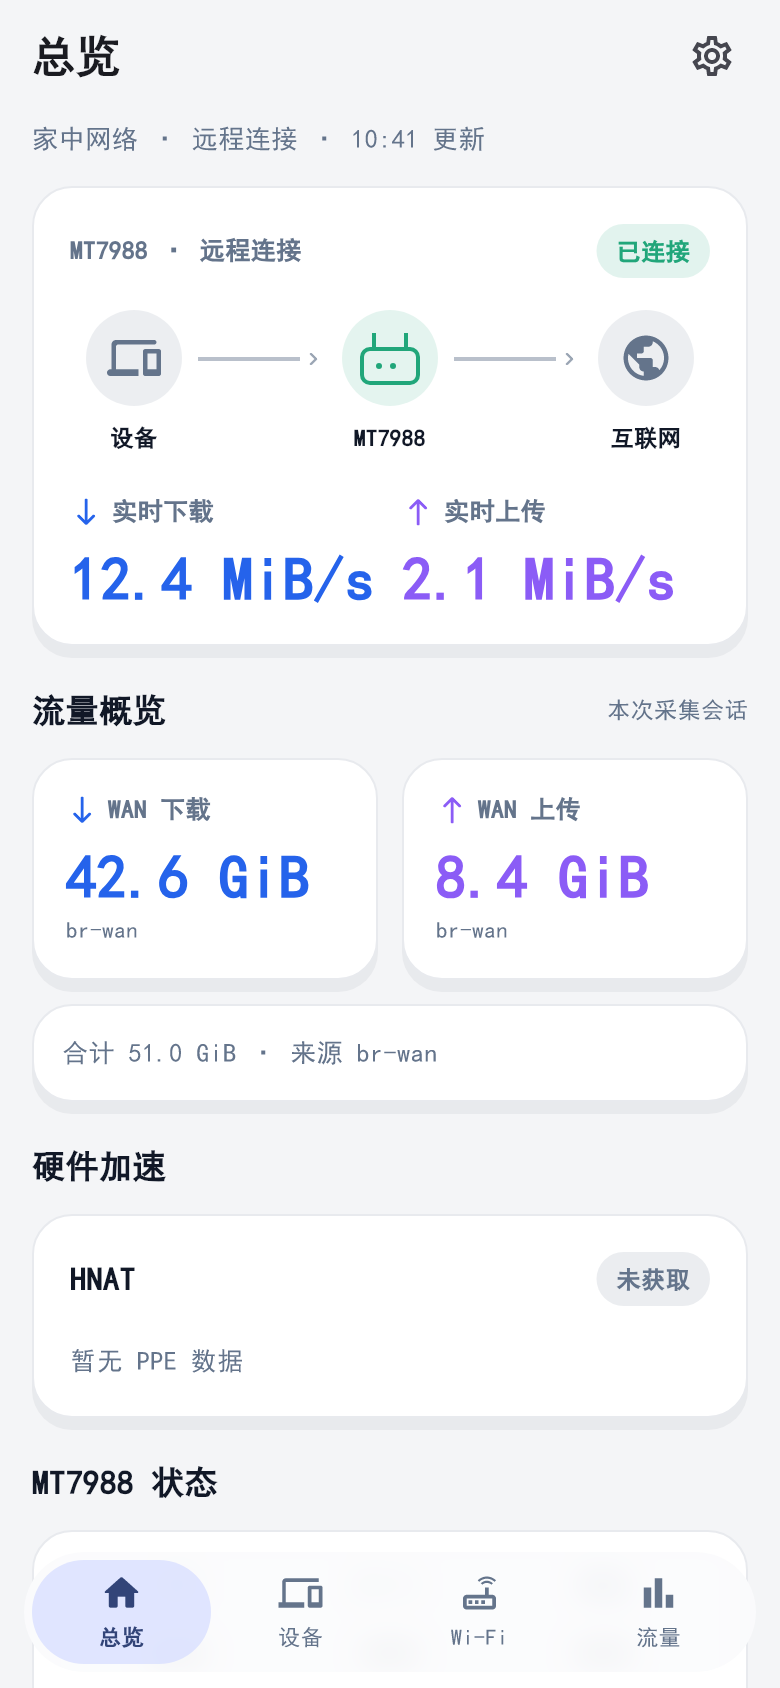
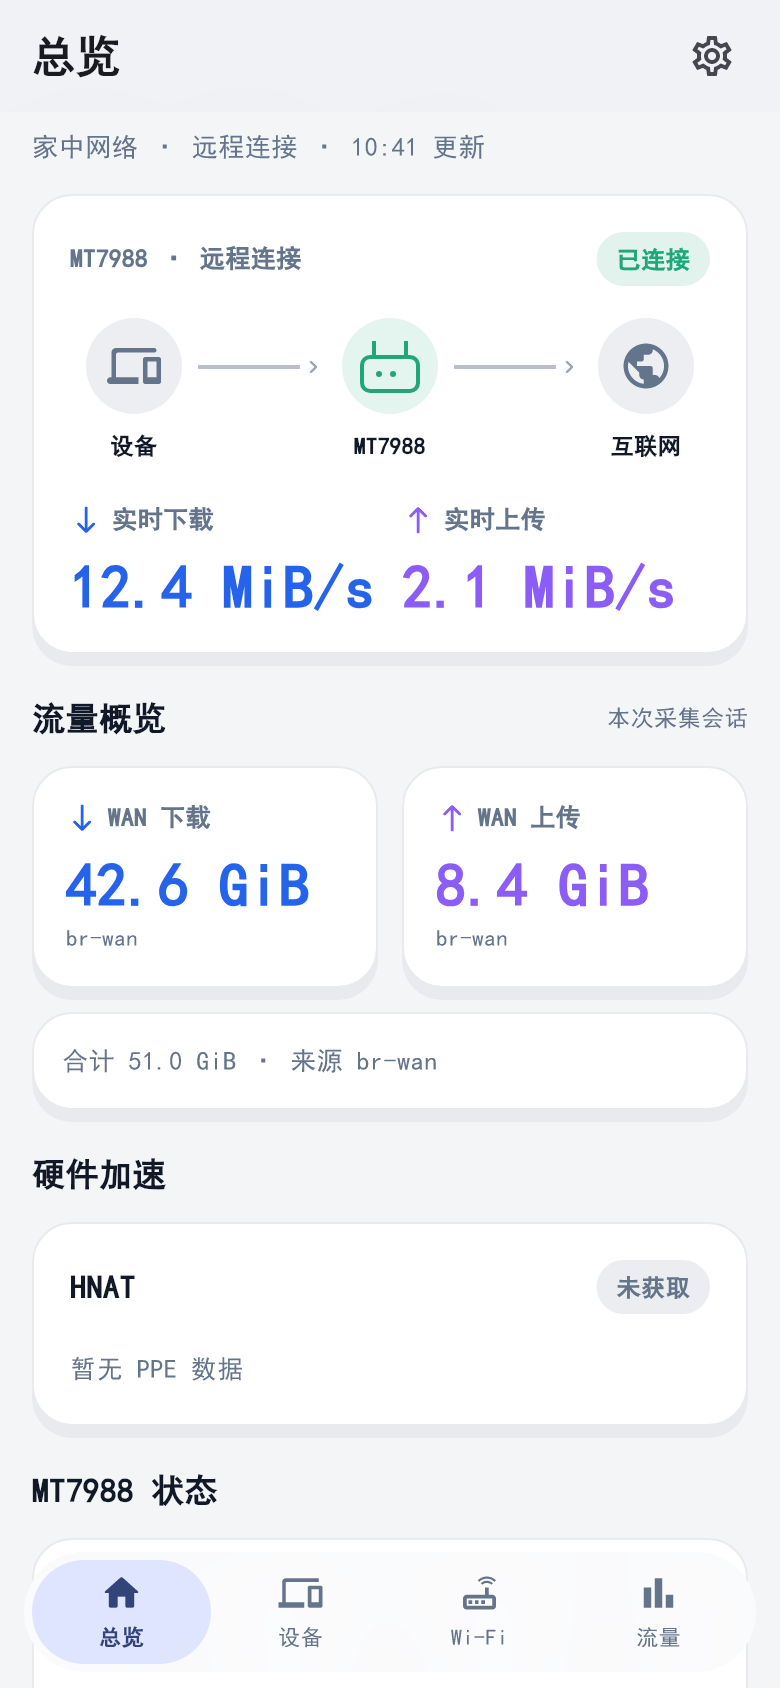
Preserve full glass effects with frameless toolbar

diff --git a/lib/main.dart b/lib/main.dart
@@ -292,7 +292,6 @@ class RouterHome extends StatefulWidget {
 
 class _RouterHomeState extends State<RouterHome> with WidgetsBindingObserver {
   final _navigationVisible = ValueNotifier(true);
-  final _scrolling = ValueNotifier(false);
   double _scrollGesture = 0;
 
   bool _onScroll(ScrollNotification notification) {
@@ -301,9 +300,6 @@ class _RouterHomeState extends State<RouterHome> with WidgetsBindingObserver {
     }
     if (notification is ScrollStartNotification) {
       _scrollGesture = 0;
-      _scrolling.value = true;
-    } else if (notification is ScrollEndNotification) {
-      _scrolling.value = false;
     } else if (notification is ScrollUpdateNotification &&
         notification.dragDetails != null) {
       final delta = notification.scrollDelta ?? 0;
@@ -558,7 +554,6 @@ class _RouterHomeState extends State<RouterHome> with WidgetsBindingObserver {
   void dispose() {
     WidgetsBinding.instance.removeObserver(this);
     _navigationVisible.dispose();
-    _scrolling.dispose();
     _timer?.cancel();
     _api?.close();
     super.dispose();
@@ -596,8 +591,17 @@ class _RouterHomeState extends State<RouterHome> with WidgetsBindingObserver {
     return Scaffold(
       backgroundColor: _pageOf(context),
       extendBody: !isIos && !wide,
+      extendBodyBehindAppBar: !isIos,
       appBar: AppBar(
-        backgroundColor: _pageOf(context),
+        backgroundColor: isIos ? _pageOf(context) : Colors.transparent,
+        flexibleSpace: isIos
+            ? null
+            : _GlassSurface(
+                border: false,
+                radius: BorderRadius.zero,
+                surfaceColor: _pageOf(context),
+                child: const SizedBox.expand(),
+              ),
         title: Text(
           names[_tab],
           style: const TextStyle(fontWeight: FontWeight.w800),
@@ -608,41 +612,46 @@ class _RouterHomeState extends State<RouterHome> with WidgetsBindingObserver {
         ],
       ),
       body: SafeArea(
-        top: true,
+        top: isIos,
         bottom: isIos || wide,
         child: Row(
           children: [
             if (wide)
-              NavigationRail(
-                selectedIndex: _tab,
-                onDestinationSelected: _selectTab,
-                labelType: NavigationRailLabelType.all,
-                backgroundColor: _cardOf(context),
-                indicatorColor: Theme.of(
-                  context,
-                ).colorScheme.primary.withValues(alpha: 0.12),
-                destinations: const [
-                  NavigationRailDestination(
-                    icon: Icon(Icons.home_outlined),
-                    selectedIcon: Icon(Icons.home_rounded),
-                    label: Text('总览'),
-                  ),
-                  NavigationRailDestination(
-                    icon: Icon(Icons.devices_outlined),
-                    selectedIcon: Icon(Icons.devices_rounded),
-                    label: Text('设备'),
-                  ),
-                  NavigationRailDestination(
-                    icon: Icon(Icons.router_outlined),
-                    selectedIcon: Icon(Icons.router_rounded),
-                    label: Text('Wi-Fi'),
-                  ),
-                  NavigationRailDestination(
-                    icon: Icon(Icons.bar_chart_outlined),
-                    selectedIcon: Icon(Icons.bar_chart_rounded),
-                    label: Text('流量'),
-                  ),
-                ],
+              Padding(
+                padding: EdgeInsets.only(
+                  top: MediaQuery.viewPaddingOf(context).top + kToolbarHeight,
+                ),
+                child: NavigationRail(
+                  selectedIndex: _tab,
+                  onDestinationSelected: _selectTab,
+                  labelType: NavigationRailLabelType.all,
+                  backgroundColor: _cardOf(context),
+                  indicatorColor: Theme.of(
+                    context,
+                  ).colorScheme.primary.withValues(alpha: 0.12),
+                  destinations: const [
+                    NavigationRailDestination(
+                      icon: Icon(Icons.home_outlined),
+                      selectedIcon: Icon(Icons.home_rounded),
+                      label: Text('总览'),
+                    ),
+                    NavigationRailDestination(
+                      icon: Icon(Icons.devices_outlined),
+                      selectedIcon: Icon(Icons.devices_rounded),
+                      label: Text('设备'),
+                    ),
+                    NavigationRailDestination(
+                      icon: Icon(Icons.router_outlined),
+                      selectedIcon: Icon(Icons.router_rounded),
+                      label: Text('Wi-Fi'),
+                    ),
+                    NavigationRailDestination(
+                      icon: Icon(Icons.bar_chart_outlined),
+                      selectedIcon: Icon(Icons.bar_chart_rounded),
+                      label: Text('流量'),
+                    ),
+                  ],
+                ),
               ),
             Expanded(
               child: snapshot == null
@@ -654,13 +663,19 @@ class _RouterHomeState extends State<RouterHome> with WidgetsBindingObserver {
                   : NotificationListener<ScrollNotification>(
                       onNotification: _onScroll,
                       child: RefreshIndicator(
+                        edgeOffset: isIos
+                            ? 0
+                            : MediaQuery.viewPaddingOf(context).top +
+                                  kToolbarHeight,
                         onRefresh: _refresh,
                         color: _blue,
                         child: ListView(
                           physics: const AlwaysScrollableScrollPhysics(),
                           padding: EdgeInsets.fromLTRB(
                             16,
-                            4,
+                            isIos
+                                ? 4
+                                : MediaQuery.viewPaddingOf(context).top + 64,
                             16,
                             !isIos && !wide
                                 ? 112 + MediaQuery.viewPaddingOf(context).bottom
@@ -705,7 +720,6 @@ class _RouterHomeState extends State<RouterHome> with WidgetsBindingObserver {
               selectedIndex: _tab,
               onSelected: _selectTab,
               visible: _navigationVisible,
-              scrolling: _scrolling,
             ),
     );
   }

diff --git a/lib/widgets/glass.dart b/lib/widgets/glass.dart
@@ -5,25 +5,25 @@ class _GlassSurface extends StatelessWidget {
   const _GlassSurface({
     required this.child,
     this.radius = const BorderRadius.all(Radius.circular(28)),
-    this.blur = true,
     this.border = true,
+    this.surfaceColor,
   });
 
   final Widget child;
   final BorderRadius radius;
-  final bool blur;
   final bool border;
+  final Color? surfaceColor;
 
   @override
   Widget build(BuildContext context) {
     final media = MediaQuery.of(context);
-    final opaque = !blur || media.highContrast || media.disableAnimations;
+    final opaque = media.highContrast || media.disableAnimations;
     final dark = _isDark(context);
     final tint = Color.alphaBlend(
       Theme.of(
         context,
       ).colorScheme.primary.withValues(alpha: dark ? 0.055 : 0.025),
-      _cardOf(context),
+      surfaceColor ?? _cardOf(context),
     );
     final surface = DecoratedBox(
       decoration: BoxDecoration(
@@ -49,7 +49,7 @@ class _GlassSurface extends StatelessWidget {
       child: opaque
           ? surface
           : BackdropFilter(
-              filter: ImageFilter.blur(sigmaX: 8, sigmaY: 8),
+              filter: ImageFilter.blur(sigmaX: 18, sigmaY: 18),
               child: surface,
             ),
     );

diff --git a/lib/widgets/compact_navigation.dart b/lib/widgets/compact_navigation.dart
@@ -5,16 +5,14 @@ class _CompactNavigation extends StatelessWidget {
     required this.selectedIndex,
     required this.onSelected,
     required this.visible,
-    required this.scrolling,
   });
   final int selectedIndex;
   final ValueListenable<bool> visible;
-  final ValueListenable<bool> scrolling;
   final ValueChanged<int> onSelected;
 
   @override
   Widget build(BuildContext context) => AnimatedBuilder(
-    animation: Listenable.merge([visible, scrolling]),
+    animation: visible,
     builder: (context, _) {
       final show = visible.value || MediaQuery.accessibleNavigationOf(context);
       final duration = MediaQuery.disableAnimationsOf(context)
@@ -53,7 +51,6 @@ class _CompactNavigation extends StatelessWidget {
                     padding: const EdgeInsets.fromLTRB(12, 0, 12, 8),
                     child: RepaintBoundary(
                       child: _GlassSurface(
-                        blur: !scrolling.value && show,
                         border: false,
                         radius: BorderRadius.circular(40),
                         child: Padding(

diff --git a/README.md b/README.md
@@ -8,7 +8,7 @@ The overview uses a three-node device → MT7988 → Internet diagram. It is a t
 
 The four screens follow the [platform-adaptive v3 design](design/platform-adaptive-v3.md). iOS uses a native UIKit tab bar, which adopts the system's Liquid Glass appearance on supported OS versions. Android uses Material 3 navigation, Android 12+ system accent color, and a navigation rail on wider screens. The content remains the same read-only router data on both platforms.
 
-Android uses a seamless page-colored header, compact capsule navigation and a frosted connection sheet, with opaque status cards. Navigation hides on upward swipes and returns on downward swipes; hidden items cannot receive touch, screen-reader or keyboard focus. Blur is disabled while scrolling, in high contrast and with reduced motion. Android configuration events and a resume-time native appearance read keep the app in sync with system dark mode. This remains a Flutter treatment, not native Compose components. [Night preview](design/previews/android-night.png) · [Connection sheet](design/previews/android-settings.png).
+Android uses a seamless frameless glass header, compact capsule navigation and a frosted connection sheet, with opaque status cards. Navigation hides on upward swipes and returns on downward swipes; hidden items cannot receive touch, screen-reader or keyboard focus. The original glass blur strength is retained while scrolling; high contrast and reduced motion still use opaque chrome. Android configuration events and a resume-time native appearance read keep the app in sync with system dark mode. This remains a Flutter treatment, not native Compose components. [Night preview](design/previews/android-night.png) · [Connection sheet](design/previews/android-settings.png).
 
 | iOS preview | Android preview |
 | --- | --- |

diff --git a/docs/superpowers/plans/2026-10-03-adaptive-navigation.md b/docs/superpowers/plans/2026-10-03-adaptive-navigation.md
@@ -7,3 +7,5 @@ Investigation: current ThemeMode.system responds correctly to Flutter brightness
 Implementation: keep native appearance synchronization in MainActivity and app state; bound filter sigma to 8, use opaque navigation while scrolling, remove toolbar/gear filters. Use ValueNotifiers for navigation scroll feedback so gestures do not rebuild data pages. Preserve navigation space, show at top/tab changes/settings/resume, disable hiding for assistive navigation. Keep iOS native chrome.
 
 Verify: live system brightness, resume with stale Flutter brightness, native events, swipe directions, semantic/hit-test hiding, keyboard sheet, full suite, day/night preview and platform CI builds.
+
+User follow-up supersedes blur reduction: retain 18 sigma glass while scrolling, including a frameless page-tinted header. Keep RepaintBoundary and notifier-isolated navigation visibility. Restore toolbar content and tablet rail insets and refresh feedback offset.
